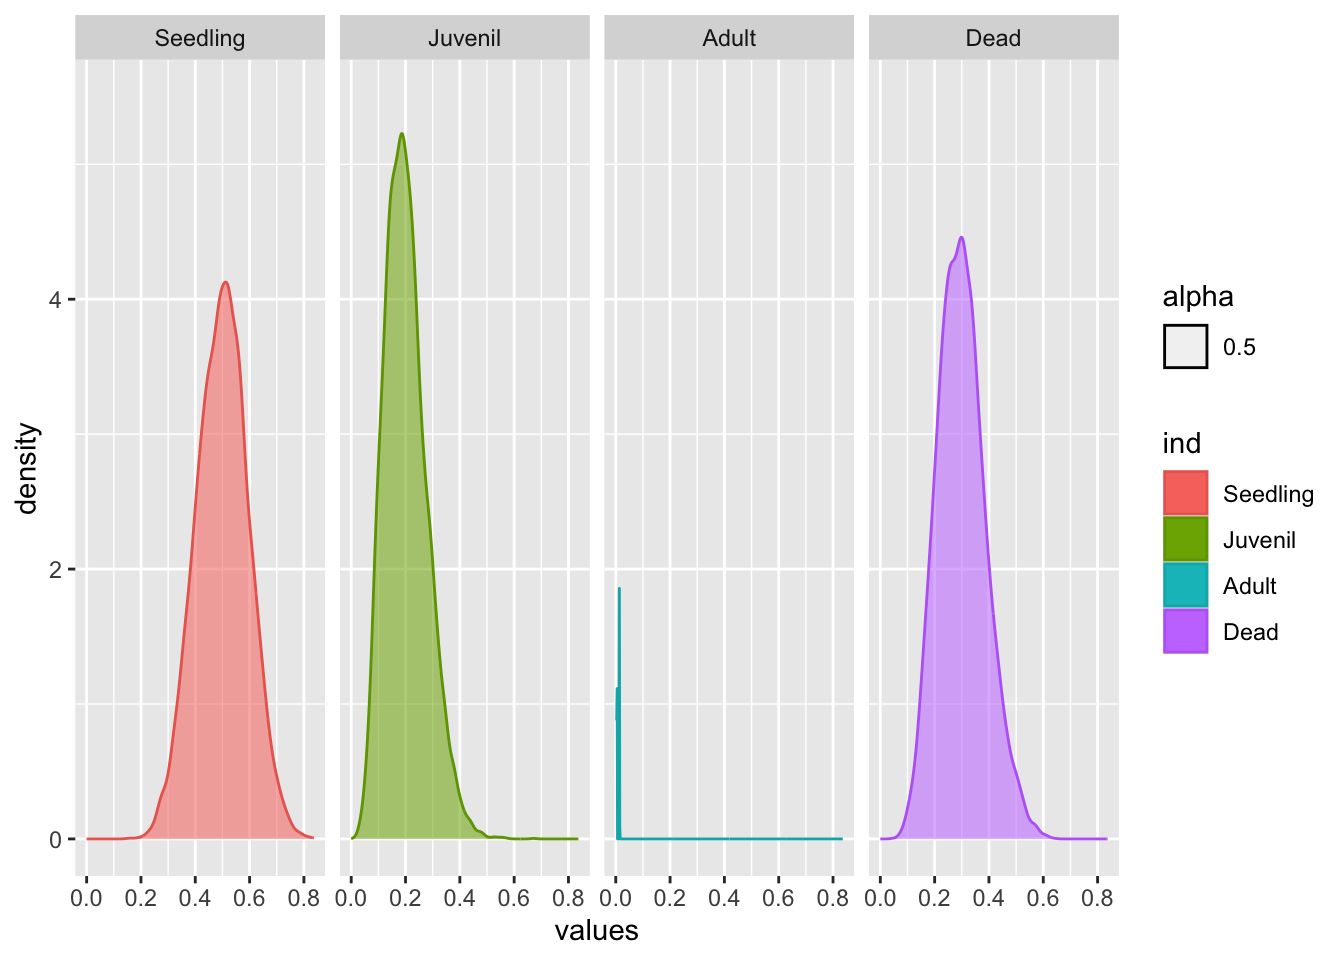
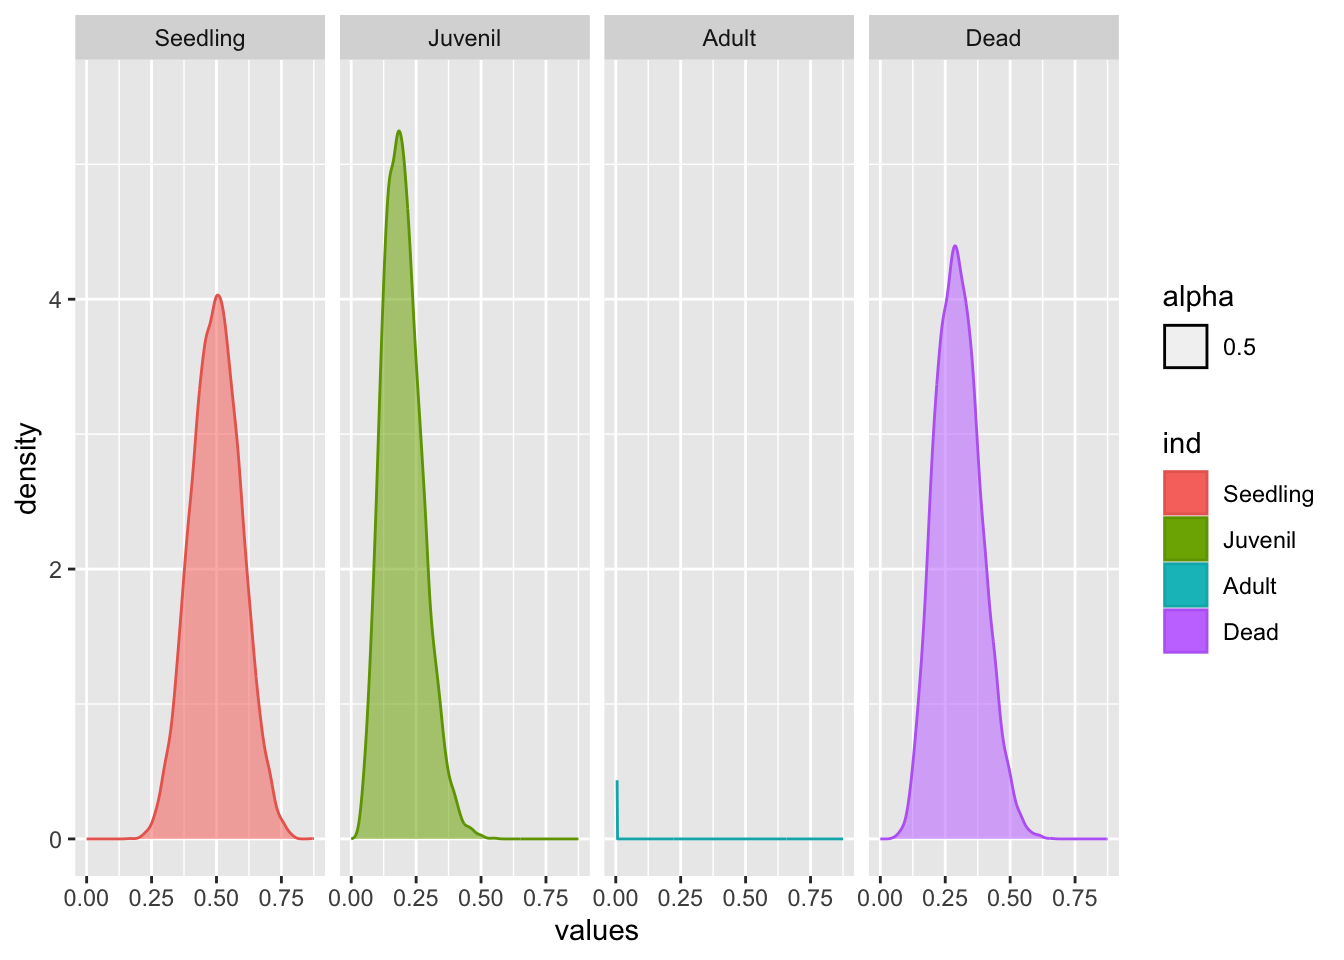
2023_07_12_8:09

diff --git a/docs/impactos-de-datos-sin-sentido-sobre-los-análisis-de-dinámica-poblacional.html b/docs/impactos-de-datos-sin-sentido-sobre-los-análisis-de-dinámica-poblacional.html
@@ -455,8 +455,8 @@ div.csl-indent {
 <span id="cb1-17"><a href="impactos-de-datos-sin-sentido-sobre-los-análisis-de-dinámica-poblacional.html#cb1-17" tabindex="-1"></a>stages <span class="ot">&lt;-</span> <span class="fu">c</span>(<span class="st">&quot;plantula&quot;</span>, <span class="st">&quot;juvenil&quot;</span>, <span class="st">&quot;adulto&quot;</span>)</span>
 <span id="cb1-18"><a href="impactos-de-datos-sin-sentido-sobre-los-análisis-de-dinámica-poblacional.html#cb1-18" tabindex="-1"></a></span>
 <span id="cb1-19"><a href="impactos-de-datos-sin-sentido-sobre-los-análisis-de-dinámica-poblacional.html#cb1-19" tabindex="-1"></a><span class="fu">plot_life_cycle</span>(Sp1matU, <span class="at">stages=</span>stages, <span class="at">fontsize =</span> <span class="dv">0</span>)</span></code></pre></div>
-<div class="grViz html-widget html-fill-item-overflow-hidden html-fill-item" id="htmlwidget-54d54c5723b061f5faee" style="width:672px;height:480px;"></div>
-<script type="application/json" data-for="htmlwidget-54d54c5723b061f5faee">{"x":{"diagram":"\ndigraph {\n  {\n    graph[overlap=false];\n    rank=same;\n    node [shape= egg , fontsize= 12 ]; \"plantula\"; \"juvenil\"; \"adulto\" \n  } ordering=out\n  x [style=invis]\n  x -> { \"plantula\"; \"juvenil\"; \"adulto\" } [style=invis] \"plantula\" -> \"juvenil\"[minlen=3,fontsize=0,color=grey,xlabel=\" 0.5\"]\n\"juvenil\" -> \"juvenil\"[minlen=0,fontsize=0,color=grey,xlabel=\" 0.3\"]\n\"juvenil\" -> \"adulto\"[minlen=3,fontsize=0,color=grey,xlabel=\" 0.4\"]\n\"adulto\" -> \"adulto\"[minlen=0,fontsize=0,color=grey,xlabel=\" 1\"]\n labelloc=\"t\";\n  label=\"  \"\n}","config":{"engine":"dot","options":null}},"evals":[],"jsHooks":[]}</script>
+<div class="grViz html-widget html-fill-item-overflow-hidden html-fill-item" id="htmlwidget-389d4d9d8d917759aee6" style="width:672px;height:480px;"></div>
+<script type="application/json" data-for="htmlwidget-389d4d9d8d917759aee6">{"x":{"diagram":"\ndigraph {\n  {\n    graph[overlap=false];\n    rank=same;\n    node [shape= egg , fontsize= 12 ]; \"plantula\"; \"juvenil\"; \"adulto\" \n  } ordering=out\n  x [style=invis]\n  x -> { \"plantula\"; \"juvenil\"; \"adulto\" } [style=invis] \"plantula\" -> \"juvenil\"[minlen=3,fontsize=0,color=grey,xlabel=\" 0.5\"]\n\"juvenil\" -> \"juvenil\"[minlen=0,fontsize=0,color=grey,xlabel=\" 0.3\"]\n\"juvenil\" -> \"adulto\"[minlen=3,fontsize=0,color=grey,xlabel=\" 0.4\"]\n\"adulto\" -> \"adulto\"[minlen=0,fontsize=0,color=grey,xlabel=\" 1\"]\n labelloc=\"t\";\n  label=\"  \"\n}","config":{"engine":"dot","options":null}},"evals":[],"jsHooks":[]}</script>
 <p>Thus if we analize this matrix we assume that none of the individuals in the adult stage die, at any time period!!!. Clearly this is not realistic. For any species the likelyhood of death at any stage is never zero (although is could very small) and thus our matrix is non-sensicle. Consider a tree species, such a <em>Sequoia</em>, it is the likely for large trees of this species it is likely to that survivorship is very high, however never 100%.</p>
 <p>In the following script we show that population changes after 5 -6 periods reminds close to one and does not change eventhough we have not recruits (we use the transition matrix without fertility). If there are no recruits (fertility matrix) population size should reduce with time.</p>
 <div class="sourceCode" id="cb2"><pre class="sourceCode r"><code class="sourceCode r"><span id="cb2-1"><a href="impactos-de-datos-sin-sentido-sobre-los-análisis-de-dinámica-poblacional.html#cb2-1" tabindex="-1"></a>n<span class="ot">=</span><span class="fu">c</span>(<span class="dv">5</span>,<span class="dv">5</span>,<span class="dv">5</span>)</span>
@@ -522,8 +522,8 @@ div.csl-indent {
 <span id="cb10-17"><a href="impactos-de-datos-sin-sentido-sobre-los-análisis-de-dinámica-poblacional.html#cb10-17" tabindex="-1"></a>stages <span class="ot">&lt;-</span> <span class="fu">c</span>(<span class="st">&quot;plantula&quot;</span>, <span class="st">&quot;juvenil&quot;</span>, <span class="st">&quot;adulto&quot;</span>)</span>
 <span id="cb10-18"><a href="impactos-de-datos-sin-sentido-sobre-los-análisis-de-dinámica-poblacional.html#cb10-18" tabindex="-1"></a></span>
 <span id="cb10-19"><a href="impactos-de-datos-sin-sentido-sobre-los-análisis-de-dinámica-poblacional.html#cb10-19" tabindex="-1"></a><span class="fu">plot_life_cycle</span>(Sp1matU_NT, <span class="at">stages=</span>stages, <span class="at">fontsize =</span> <span class="dv">0</span>)</span></code></pre></div>
-<div class="grViz html-widget html-fill-item-overflow-hidden html-fill-item" id="htmlwidget-a43e1d2e29dcafc9becf" style="width:672px;height:480px;"></div>
-<script type="application/json" data-for="htmlwidget-a43e1d2e29dcafc9becf">{"x":{"diagram":"\ndigraph {\n  {\n    graph[overlap=false];\n    rank=same;\n    node [shape= egg , fontsize= 12 ]; \"plantula\"; \"juvenil\"; \"adulto\" \n  } ordering=out\n  x [style=invis]\n  x -> { \"plantula\"; \"juvenil\"; \"adulto\" } [style=invis] \"plantula\" -> \"juvenil\"[minlen=3,fontsize=0,color=grey,xlabel=\" 0.5\"]\n\"juvenil\" -> \"juvenil\"[minlen=0,fontsize=0,color=grey,xlabel=\" 0.7\"]\n\"adulto\" -> \"adulto\"[minlen=0,fontsize=0,color=grey,xlabel=\" 0.995\"]\n labelloc=\"t\";\n  label=\"  \"\n}","config":{"engine":"dot","options":null}},"evals":[],"jsHooks":[]}</script>
+<div class="grViz html-widget html-fill-item-overflow-hidden html-fill-item" id="htmlwidget-7d550236df119d8eaf2f" style="width:672px;height:480px;"></div>
+<script type="application/json" data-for="htmlwidget-7d550236df119d8eaf2f">{"x":{"diagram":"\ndigraph {\n  {\n    graph[overlap=false];\n    rank=same;\n    node [shape= egg , fontsize= 12 ]; \"plantula\"; \"juvenil\"; \"adulto\" \n  } ordering=out\n  x [style=invis]\n  x -> { \"plantula\"; \"juvenil\"; \"adulto\" } [style=invis] \"plantula\" -> \"juvenil\"[minlen=3,fontsize=0,color=grey,xlabel=\" 0.5\"]\n\"juvenil\" -> \"juvenil\"[minlen=0,fontsize=0,color=grey,xlabel=\" 0.7\"]\n\"adulto\" -> \"adulto\"[minlen=0,fontsize=0,color=grey,xlabel=\" 0.995\"]\n labelloc=\"t\";\n  label=\"  \"\n}","config":{"engine":"dot","options":null}},"evals":[],"jsHooks":[]}</script>
 <p>As shown by <span class="citation">Caswell (<a href="#ref-caswell2000matrix">2000</a>)</span> and more recently explored by <span class="citation">Stott et al. (<a href="#ref-stott2010reducibility">2010</a>)</span> matrices need to be <em>irreducible</em>. The concept of <em>irreducibility</em> is associated with the life cycle of the species and the matrix includes the transitions from all stages to all other stages. The above life cycle figure is missing two important components in the life history of the species, no juveniles grow to become adults and none of the adults produce seedlings (seeds that grow to seedlings).</p>
 <p>An easy way of determining if the matrix is irreducible is to read the follwowing script <em>isIrreducible</em> in the package (popdemo). Note that is this case the result is <em>False</em> for the above matrix.</p>
 <div class="sourceCode" id="cb11"><pre class="sourceCode r"><code class="sourceCode r"><span id="cb11-1"><a href="impactos-de-datos-sin-sentido-sobre-los-análisis-de-dinámica-poblacional.html#cb11-1" tabindex="-1"></a><span class="fu">isIrreducible</span>(Sp1matU_NT) <span class="co"># for the transiiton matrix, missing a transition stage and fertility</span></span></code></pre></div>
@@ -560,8 +560,8 @@ div.csl-indent {
 <span id="cb17-17"><a href="impactos-de-datos-sin-sentido-sobre-los-análisis-de-dinámica-poblacional.html#cb17-17" tabindex="-1"></a>stages <span class="ot">&lt;-</span> <span class="fu">c</span>(<span class="st">&quot;plantula&quot;</span>, <span class="st">&quot;juvenil&quot;</span>, <span class="st">&quot;adulto&quot;</span>)</span>
 <span id="cb17-18"><a href="impactos-de-datos-sin-sentido-sobre-los-análisis-de-dinámica-poblacional.html#cb17-18" tabindex="-1"></a></span>
 <span id="cb17-19"><a href="impactos-de-datos-sin-sentido-sobre-los-análisis-de-dinámica-poblacional.html#cb17-19" tabindex="-1"></a><span class="fu">plot_life_cycle</span>(Sp1matU_NS, <span class="at">stages=</span>stages, <span class="at">fontsize =</span> <span class="dv">0</span>)</span></code></pre></div>
-<div class="grViz html-widget html-fill-item-overflow-hidden html-fill-item" id="htmlwidget-c2f7a486879f5e616980" style="width:672px;height:480px;"></div>
-<script type="application/json" data-for="htmlwidget-c2f7a486879f5e616980">{"x":{"diagram":"\ndigraph {\n  {\n    graph[overlap=false];\n    rank=same;\n    node [shape= egg , fontsize= 12 ]; \"plantula\"; \"juvenil\"; \"adulto\" \n  } ordering=out\n  x [style=invis]\n  x -> { \"plantula\"; \"juvenil\"; \"adulto\" } [style=invis] \"juvenil\" -> \"juvenil\"[minlen=0,fontsize=0,color=grey,xlabel=\" 0.7\"]\n\"juvenil\" -> \"adulto\"[minlen=3,fontsize=0,color=grey,xlabel=\" 0.25\"]\n\"adulto\" -> \"adulto\"[minlen=0,fontsize=0,color=grey,xlabel=\" 0.995\"]\n labelloc=\"t\";\n  label=\"  \"\n}","config":{"engine":"dot","options":null}},"evals":[],"jsHooks":[]}</script>
+<div class="grViz html-widget html-fill-item-overflow-hidden html-fill-item" id="htmlwidget-50272972a93536205dfc" style="width:672px;height:480px;"></div>
+<script type="application/json" data-for="htmlwidget-50272972a93536205dfc">{"x":{"diagram":"\ndigraph {\n  {\n    graph[overlap=false];\n    rank=same;\n    node [shape= egg , fontsize= 12 ]; \"plantula\"; \"juvenil\"; \"adulto\" \n  } ordering=out\n  x [style=invis]\n  x -> { \"plantula\"; \"juvenil\"; \"adulto\" } [style=invis] \"juvenil\" -> \"juvenil\"[minlen=0,fontsize=0,color=grey,xlabel=\" 0.7\"]\n\"juvenil\" -> \"adulto\"[minlen=3,fontsize=0,color=grey,xlabel=\" 0.25\"]\n\"adulto\" -> \"adulto\"[minlen=0,fontsize=0,color=grey,xlabel=\" 0.995\"]\n labelloc=\"t\";\n  label=\"  \"\n}","config":{"engine":"dot","options":null}},"evals":[],"jsHooks":[]}</script>
 <div class="sourceCode" id="cb18"><pre class="sourceCode r"><code class="sourceCode r"><span id="cb18-1"><a href="impactos-de-datos-sin-sentido-sobre-los-análisis-de-dinámica-poblacional.html#cb18-1" tabindex="-1"></a><span class="fu">isIrreducible</span>(Sp1matU_NS)</span></code></pre></div>
 <pre><code>## [1] FALSE</code></pre>
 </div>
@@ -625,8 +625,8 @@ div.csl-indent {
 <span id="cb25-19"><a href="impactos-de-datos-sin-sentido-sobre-los-análisis-de-dinámica-poblacional.html#cb25-19" tabindex="-1"></a>stages <span class="ot">&lt;-</span> <span class="fu">c</span>(<span class="st">&quot;semillas&quot;</span>, <span class="st">&quot;plantula&quot;</span>, <span class="st">&quot;juvenil&quot;</span>, <span class="st">&quot;adulto&quot;</span>)</span>
 <span id="cb25-20"><a href="impactos-de-datos-sin-sentido-sobre-los-análisis-de-dinámica-poblacional.html#cb25-20" tabindex="-1"></a></span>
 <span id="cb25-21"><a href="impactos-de-datos-sin-sentido-sobre-los-análisis-de-dinámica-poblacional.html#cb25-21" tabindex="-1"></a><span class="fu">plot_life_cycle</span>(Sp1matA_Fert2, <span class="at">stages=</span>stages)</span></code></pre></div>
-<div class="grViz html-widget html-fill-item-overflow-hidden html-fill-item" id="htmlwidget-ba879fb5505d8ad12ca0" style="width:672px;height:480px;"></div>
-<script type="application/json" data-for="htmlwidget-ba879fb5505d8ad12ca0">{"x":{"diagram":"\ndigraph {\n  {\n    graph[overlap=false];\n    rank=same;\n    node [shape= egg , fontsize= 12 ]; \"semillas\"; \"plantula\"; \"juvenil\"; \"adulto\" \n  } ordering=out\n  x [style=invis]\n  x -> { \"semillas\"; \"plantula\"; \"juvenil\"; \"adulto\" } [style=invis] \"plantula\" -> \"juvenil\"[minlen=3,fontsize=10,color=grey,xlabel=\" 0.3\"]\n\"juvenil\" -> \"juvenil\"[minlen=0,fontsize=10,color=grey,xlabel=\" 0.7\"]\n\"juvenil\" -> \"adulto\"[minlen=3,fontsize=10,color=grey,xlabel=\" 0.25\"]\n\"adulto\" -> \"semillas\"[minlen=-9,fontsize=10,color=grey,xlabel=\" 1100\"]\n\"adulto\" -> \"adulto\"[minlen=0,fontsize=10,color=grey,xlabel=\" 0.995\"]\n labelloc=\"t\";\n  label=\"  \"\n}","config":{"engine":"dot","options":null}},"evals":[],"jsHooks":[]}</script>
+<div class="grViz html-widget html-fill-item-overflow-hidden html-fill-item" id="htmlwidget-e01e7c459546c098dafc" style="width:672px;height:480px;"></div>
+<script type="application/json" data-for="htmlwidget-e01e7c459546c098dafc">{"x":{"diagram":"\ndigraph {\n  {\n    graph[overlap=false];\n    rank=same;\n    node [shape= egg , fontsize= 12 ]; \"semillas\"; \"plantula\"; \"juvenil\"; \"adulto\" \n  } ordering=out\n  x [style=invis]\n  x -> { \"semillas\"; \"plantula\"; \"juvenil\"; \"adulto\" } [style=invis] \"plantula\" -> \"juvenil\"[minlen=3,fontsize=10,color=grey,xlabel=\" 0.3\"]\n\"juvenil\" -> \"juvenil\"[minlen=0,fontsize=10,color=grey,xlabel=\" 0.7\"]\n\"juvenil\" -> \"adulto\"[minlen=3,fontsize=10,color=grey,xlabel=\" 0.25\"]\n\"adulto\" -> \"semillas\"[minlen=-9,fontsize=10,color=grey,xlabel=\" 1100\"]\n\"adulto\" -> \"adulto\"[minlen=0,fontsize=10,color=grey,xlabel=\" 0.995\"]\n labelloc=\"t\";\n  label=\"  \"\n}","config":{"engine":"dot","options":null}},"evals":[],"jsHooks":[]}</script>
 <div class="sourceCode" id="cb26"><pre class="sourceCode r"><code class="sourceCode r"><span id="cb26-1"><a href="impactos-de-datos-sin-sentido-sobre-los-análisis-de-dinámica-poblacional.html#cb26-1" tabindex="-1"></a><span class="fu">lambda</span>(Sp1matA_Fert2)</span></code></pre></div>
 <pre><code>## [1] 1.019805</code></pre>
 <div class="sourceCode" id="cb28"><pre class="sourceCode r"><code class="sourceCode r"><span id="cb28-1"><a href="impactos-de-datos-sin-sentido-sobre-los-análisis-de-dinámica-poblacional.html#cb28-1" tabindex="-1"></a><span class="co"># show change in population size</span></span>
@@ -697,8 +697,8 @@ div.csl-indent {
 <span id="cb37-8"><a href="impactos-de-datos-sin-sentido-sobre-los-análisis-de-dinámica-poblacional.html#cb37-8" tabindex="-1"></a>stages <span class="ot">&lt;-</span> <span class="fu">c</span>(<span class="st">&quot;plantula&quot;</span>, <span class="st">&quot;juvenil&quot;</span>, <span class="st">&quot;adulto&quot;</span>)</span>
 <span id="cb37-9"><a href="impactos-de-datos-sin-sentido-sobre-los-análisis-de-dinámica-poblacional.html#cb37-9" tabindex="-1"></a></span>
 <span id="cb37-10"><a href="impactos-de-datos-sin-sentido-sobre-los-análisis-de-dinámica-poblacional.html#cb37-10" tabindex="-1"></a><span class="fu">plot_life_cycle</span>(Dirichlet, <span class="at">stages=</span>stages)</span></code></pre></div>
-<div class="grViz html-widget html-fill-item-overflow-hidden html-fill-item" id="htmlwidget-9f474fceafbae130dcd6" style="width:672px;height:480px;"></div>
-<script type="application/json" data-for="htmlwidget-9f474fceafbae130dcd6">{"x":{"diagram":"\ndigraph {\n  {\n    graph[overlap=false];\n    rank=same;\n    node [shape= egg , fontsize= 12 ]; \"plantula\"; \"juvenil\"; \"adulto\" \n  } ordering=out\n  x [style=invis]\n  x -> { \"plantula\"; \"juvenil\"; \"adulto\" } [style=invis] \"plantula\" -> \"plantula\"[minlen=0,fontsize=10,color=grey,xlabel=\" 0.5\"]\n\"plantula\" -> \"juvenil\"[minlen=3,fontsize=10,color=grey,xlabel=\" 0.2\"]\n\"juvenil\" -> \"adulto\"[minlen=3,fontsize=10,color=grey,xlabel=\" 0.3\"]\n\"adulto\" -> \"adulto\"[minlen=0,fontsize=10,color=grey,xlabel=\" 0.7\"]\n labelloc=\"t\";\n  label=\"  \"\n}","config":{"engine":"dot","options":null}},"evals":[],"jsHooks":[]}</script>
+<div class="grViz html-widget html-fill-item-overflow-hidden html-fill-item" id="htmlwidget-956fdb8fc8ae08b4a545" style="width:672px;height:480px;"></div>
+<script type="application/json" data-for="htmlwidget-956fdb8fc8ae08b4a545">{"x":{"diagram":"\ndigraph {\n  {\n    graph[overlap=false];\n    rank=same;\n    node [shape= egg , fontsize= 12 ]; \"plantula\"; \"juvenil\"; \"adulto\" \n  } ordering=out\n  x [style=invis]\n  x -> { \"plantula\"; \"juvenil\"; \"adulto\" } [style=invis] \"plantula\" -> \"plantula\"[minlen=0,fontsize=10,color=grey,xlabel=\" 0.5\"]\n\"plantula\" -> \"juvenil\"[minlen=3,fontsize=10,color=grey,xlabel=\" 0.2\"]\n\"juvenil\" -> \"adulto\"[minlen=3,fontsize=10,color=grey,xlabel=\" 0.3\"]\n\"adulto\" -> \"adulto\"[minlen=0,fontsize=10,color=grey,xlabel=\" 0.7\"]\n labelloc=\"t\";\n  label=\"  \"\n}","config":{"engine":"dot","options":null}},"evals":[],"jsHooks":[]}</script>
 </div>
 </div>
 <div id="dirichlet-approach-for-estimating-confidence-intervals" class="section level2 hasAnchor" number="21.5">
@@ -712,15 +712,15 @@ div.csl-indent {
 <span id="cb39-3"><a href="impactos-de-datos-sin-sentido-sobre-los-análisis-de-dinámica-poblacional.html#cb39-3" tabindex="-1"></a>dfL<span class="ot">=</span><span class="fu">as.data.frame</span>(L)</span>
 <span id="cb39-4"><a href="impactos-de-datos-sin-sentido-sobre-los-análisis-de-dinámica-poblacional.html#cb39-4" tabindex="-1"></a><span class="fu">t</span>(<span class="fu">summary</span>(dfL))</span></code></pre></div>
 <pre><code>##                                                                      
-##      pi.1 Min.   :0.1549      1st Qu.:0.4338      Median :0.5004     
-##      pi.2 Min.   :0.01683     1st Qu.:0.14467     Median :0.19367    
+##      pi.1 Min.   :0.1684      1st Qu.:0.4322      Median :0.4990     
+##      pi.2 Min.   :0.02275     1st Qu.:0.14346     Median :0.19269    
 ##      pi.3 Min.   :0.000e+00   1st Qu.:0.000e+00   Median :0.000e+00  
-##      pi.4 Min.   :0.04821     1st Qu.:0.23645     Median :0.29521    
+##      pi.4 Min.   :0.05518     1st Qu.:0.23656     Median :0.29641    
 ##                                                                      
-##      pi.1 Mean   :0.4992      3rd Qu.:0.5638      Max.   :0.8367     
-##      pi.2 Mean   :0.20130     3rd Qu.:0.24798     Max.   :0.67113    
-##      pi.3 Mean   :1.822e-06   3rd Qu.:0.000e+00   Max.   :1.310e-02  
-##      pi.4 Mean   :0.29951     3rd Qu.:0.35509     Max.   :0.64135</code></pre>
+##      pi.1 Mean   :0.4992      3rd Qu.:0.5653      Max.   :0.8751     
+##      pi.2 Mean   :0.19968     3rd Qu.:0.24680     Max.   :0.55671    
+##      pi.3 Mean   :4.520e-07   3rd Qu.:0.000e+00   Max.   :3.501e-03  
+##      pi.4 Mean   :0.30111     3rd Qu.:0.35926     Max.   :0.65736</code></pre>
 <div class="sourceCode" id="cb41"><pre class="sourceCode r"><code class="sourceCode r"><span id="cb41-1"><a href="impactos-de-datos-sin-sentido-sobre-los-análisis-de-dinámica-poblacional.html#cb41-1" tabindex="-1"></a><span class="co">#head(dfL)</span></span>
 <span id="cb41-2"><a href="impactos-de-datos-sin-sentido-sobre-los-análisis-de-dinámica-poblacional.html#cb41-2" tabindex="-1"></a>stack_dfL<span class="ot">=</span><span class="fu">stack</span>(dfL)</span>
 <span id="cb41-3"><a href="impactos-de-datos-sin-sentido-sobre-los-análisis-de-dinámica-poblacional.html#cb41-3" tabindex="-1"></a>comb_dfbL<span class="ot">=</span> <span class="fu">cbind</span>(stack_dfL, <span class="at">T=</span><span class="st">&quot;25&quot;</span>)</span>
@@ -763,11 +763,11 @@ div.csl-indent {
 <span id="cb42-12"><a href="impactos-de-datos-sin-sentido-sobre-los-análisis-de-dinámica-poblacional.html#cb42-12" tabindex="-1"></a>            )</span>
 <span id="cb42-13"><a href="impactos-de-datos-sin-sentido-sobre-los-análisis-de-dinámica-poblacional.html#cb42-13" tabindex="-1"></a></span>
 <span id="cb42-14"><a href="impactos-de-datos-sin-sentido-sobre-los-análisis-de-dinámica-poblacional.html#cb42-14" tabindex="-1"></a>Transitions</span></code></pre></div>
-<pre><code>##        ind  mean     sd    median        CI5   CI95        min        max
-## 1 Seedling 0.499 0.0954 0.5003651 0.34055199 0.6548 0.15491285 0.83669333
-## 2  Juvenil 0.201 0.0772 0.1936655 0.08912183 0.3406 0.01683504 0.67113333
-## 3    Adult 0.000 0.0001 0.0000000 0.00000000 0.0000 0.00000000 0.01309662
-## 4     Dead 0.300 0.0881 0.2952137 0.16430081 0.4553 0.04820515 0.64134541</code></pre>
+<pre><code>##        ind  mean     sd    median        CI5   CI95        min         max
+## 1 Seedling 0.499 0.0957 0.4989892 0.34286266 0.6578 0.16836843 0.875053464
+## 2  Juvenil 0.200 0.0763 0.1926933 0.08767123 0.3374 0.02275359 0.556707064
+## 3    Adult 0.000 0.0000 0.0000000 0.00000000 0.0000 0.00000000 0.003500599
+## 4     Dead 0.301 0.0882 0.2964108 0.16546086 0.4532 0.05518101 0.657363961</code></pre>
 
 </div>
 </div>
